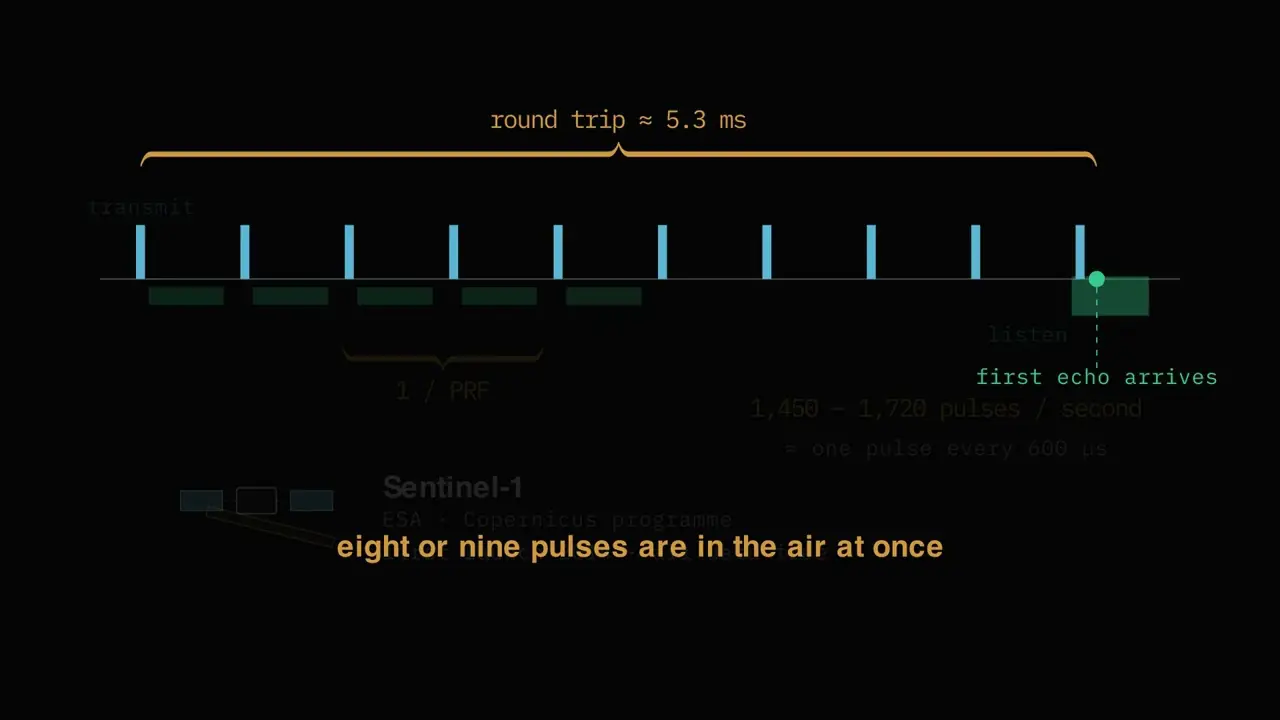
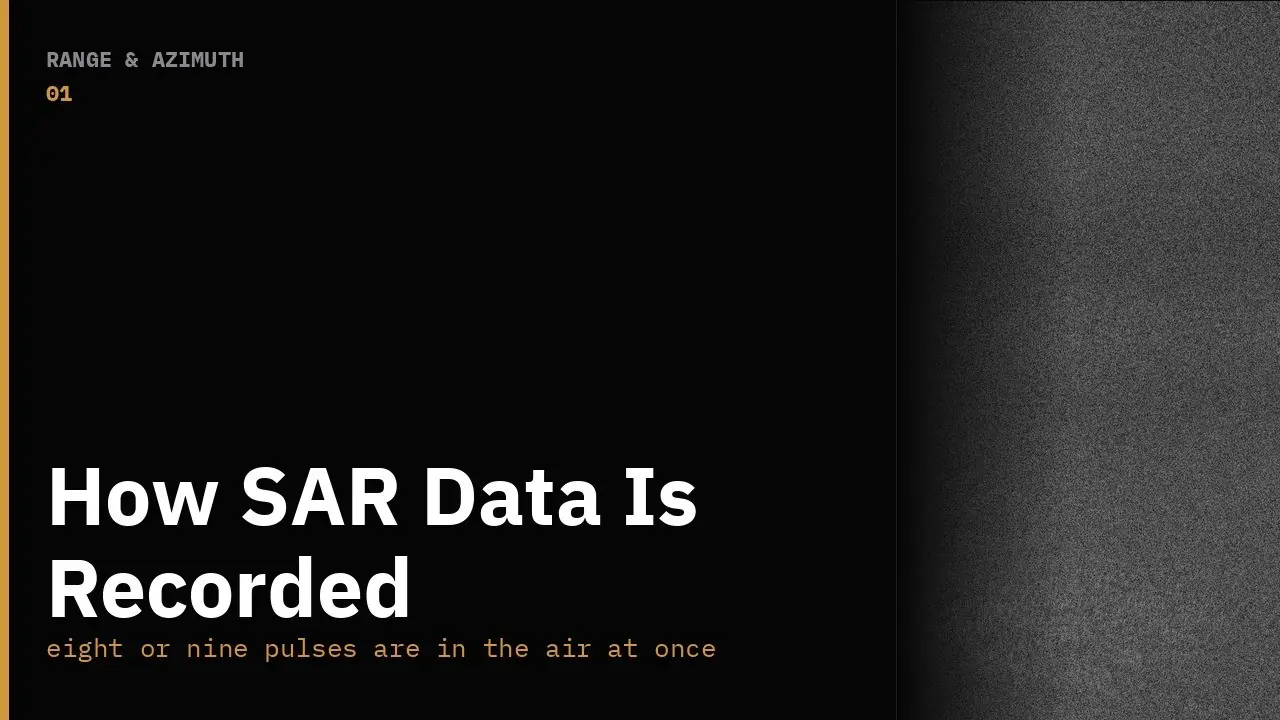
Add EP 03 to video strip, fix dead EP 02 link, shrink cards
- New: EP 03 "How SAR Focusing Works: Real Data, Static to City"
- EP 02 pointed at nJHhTd2NnP8, which now 404s; the playlist serves the
  re-upload 8ostDlhvAXc, so the link and thumbnail are updated (title
  also drops the trailing "?" to match the video)
- Cards made more compact for three-across: tighter grid track and gap,
  capped grid width, smaller play button, title and meta type

diff --git a/index.html b/index.html
@@ -1353,8 +1353,8 @@
             font-size: .92rem; line-height: 1.65; max-width: 680px;
         }
         .yt-grid {
-            display: grid; grid-template-columns: repeat(auto-fit, minmax(280px, 1fr));
-            gap: 1.4rem; margin-top: 1.6rem;
+            display: grid; grid-template-columns: repeat(auto-fit, minmax(200px, 1fr));
+            gap: 1.1rem; margin-top: 1.6rem; max-width: 860px;
         }
         .yt-card {
             display: block; text-decoration: none;
@@ -1371,29 +1371,29 @@
         .yt-card:hover .yt-thumb img { transform: scale(1.035); }
         .yt-play {
             position: absolute; left: 50%; top: 50%; transform: translate(-50%,-50%);
-            width: 52px; height: 36px; border-radius: 6px;
+            width: 40px; height: 28px; border-radius: 5px;
             background: rgba(9,11,11,.72); border: 1px solid rgba(241,243,237,.45);
             display: flex; align-items: center; justify-content: center;
             transition: background var(--t), border-color var(--t);
         }
         .yt-play::after {
             content: ''; margin-left: 2px;
-            border-left: 11px solid var(--text);
-            border-top: 7px solid transparent; border-bottom: 7px solid transparent;
+            border-left: 9px solid var(--text);
+            border-top: 5.5px solid transparent; border-bottom: 5.5px solid transparent;
         }
         .yt-card:hover .yt-play { background: rgba(9,11,11,.9); border-color: var(--green); }
-        .yt-body { padding: 1rem 1.1rem 1.15rem; }
+        .yt-body { padding: .8rem .9rem .95rem; }
         .yt-ep {
-            font-family: 'DM Mono', monospace; font-size: .6rem;
+            font-family: 'DM Mono', monospace; font-size: .57rem;
             letter-spacing: .12em; text-transform: uppercase; color: var(--green);
         }
         .yt-title {
-            font-family: 'Newsreader', Georgia, serif; font-size: 1.18rem; font-weight: 500;
-            color: var(--text); line-height: 1.25; margin-top: .4rem;
+            font-family: 'Newsreader', Georgia, serif; font-size: 1rem; font-weight: 500;
+            color: var(--text); line-height: 1.3; margin-top: .35rem;
         }
         .yt-watch {
-            display: inline-block; margin-top: .65rem;
-            font-family: 'DM Mono', monospace; font-size: .62rem;
+            display: inline-block; margin-top: .55rem;
+            font-family: 'DM Mono', monospace; font-size: .58rem;
             letter-spacing: .08em; text-transform: uppercase;
             color: var(--text3); transition: color var(--t);
         }
@@ -2339,15 +2339,27 @@
                         <span class="yt-watch">Watch on YouTube &nbsp;→</span>
                     </div>
                 </a>
-                <a class="yt-card" href="https://www.youtube.com/watch?v=nJHhTd2NnP8&list=PLFe15SxHKlqw" target="_blank" rel="noopener noreferrer">
+                <a class="yt-card" href="https://www.youtube.com/watch?v=8ostDlhvAXc&list=PLFe15SxHKlqw" target="_blank" rel="noopener noreferrer">
                     <div class="yt-thumb">
                         <img src="yt-recorded.webp" width="1280" height="720" loading="lazy" decoding="async"
-                             alt="Video thumbnail: How SAR Data Is Recorded?">
+                             alt="Video thumbnail: How SAR Data Is Recorded">
                         <span class="yt-play" aria-hidden="true"></span>
                     </div>
                     <div class="yt-body">
                         <div class="yt-ep">EP 02 &nbsp;·&nbsp; Aug 2026</div>
-                        <div class="yt-title">How SAR Data Is Recorded?</div>
+                        <div class="yt-title">How SAR Data Is Recorded</div>
+                        <span class="yt-watch">Watch on YouTube &nbsp;→</span>
+                    </div>
+                </a>
+                <a class="yt-card" href="https://www.youtube.com/watch?v=SGmkbMFGw48&list=PLFe15SxHKlqw" target="_blank" rel="noopener noreferrer">
+                    <div class="yt-thumb">
+                        <img src="yt-focusing.webp" width="1280" height="720" loading="lazy" decoding="async"
+                             alt="Video thumbnail: How SAR Focusing Works — real data, static to city">
+                        <span class="yt-play" aria-hidden="true"></span>
+                    </div>
+                    <div class="yt-body">
+                        <div class="yt-ep">EP 03 &nbsp;·&nbsp; Sep 2026</div>
+                        <div class="yt-title">How SAR Focusing Works: Real Data, Static to City</div>
                         <span class="yt-watch">Watch on YouTube &nbsp;→</span>
                     </div>
                 </a>
